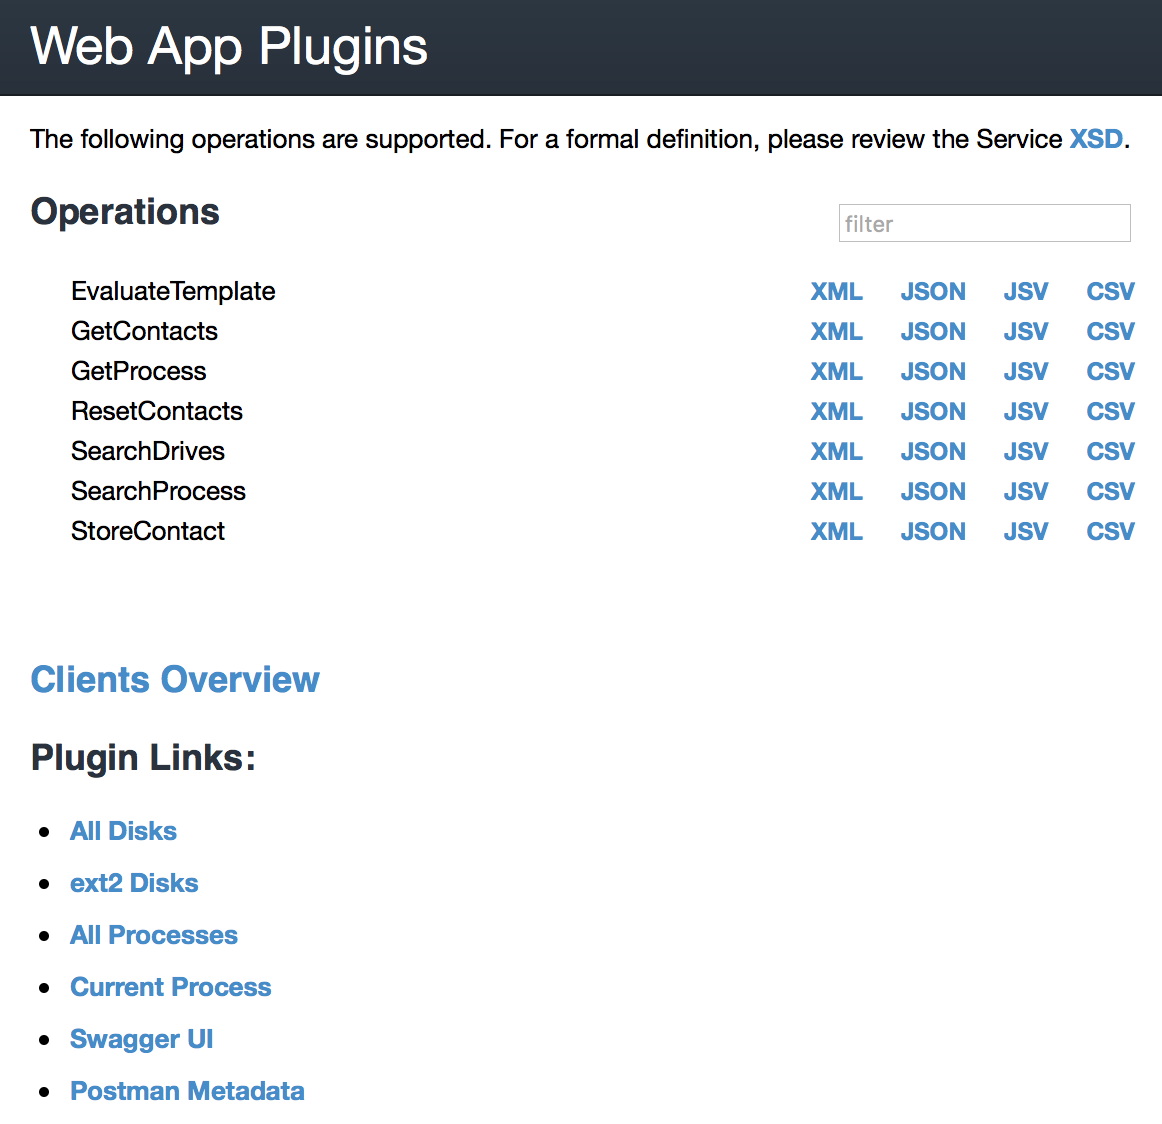
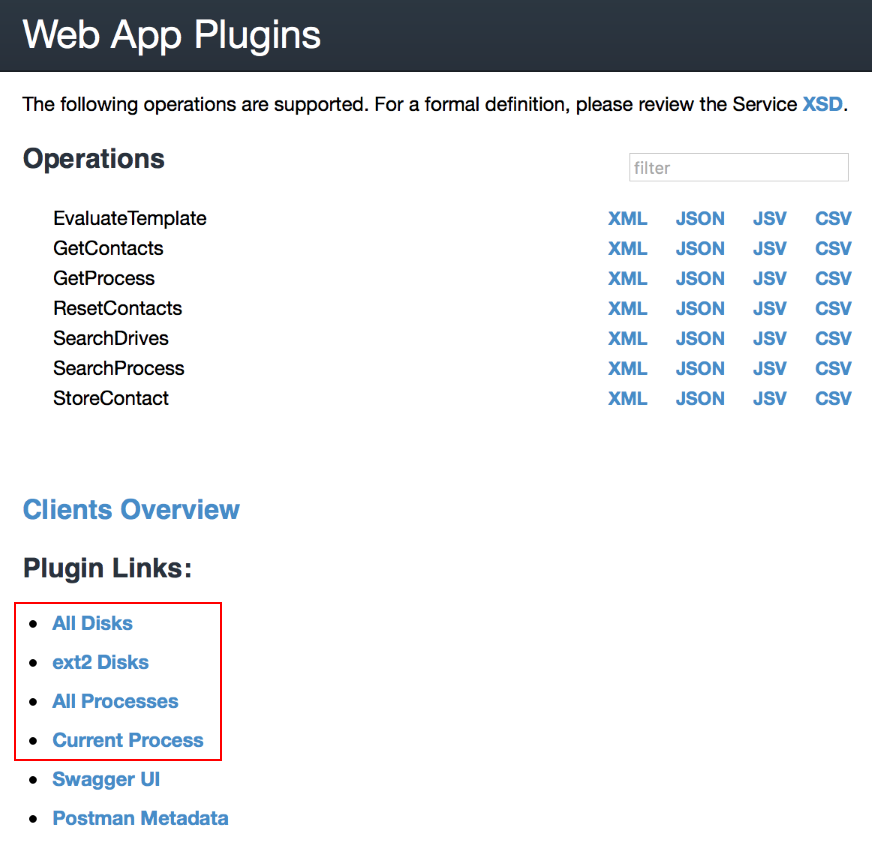
Add docs on CustomPlugin

diff --git a/src/apps/plugins/index.html b/src/apps/plugins/index.html
@@ -9,13 +9,14 @@ title: Web App Plugins
 
 <p>
     Plugins allow "no touch" sharing of 
-    <a href="http://docs.servicestack.net/create-your-first-webservice">ServiceStack Services</a>, 
+    <a href="http://docs.servicestack.net/plugins">ServiceStack Plugins</a>, 
+    <a href="http://docs.servicestack.net/create-your-first-webservice">Services</a>, 
     <a href="http://templates.servicestack.net/docs/filters">Template Filters</a>
     <a href="http://templates.servicestack.net/docs/code-pages">Template Code Pages</a>,
     <a href="http://docs.servicestack.net/validation">Validators</a>, etc.
-    that are contained within <b>.dll's</b> or <b>.exe's</b> dropped in a Web App's 
+    contained within <b>.dll's</b> or <b>.exe's</b> dropped in a Web App's 
     <a href="https://github.com/NetCoreApps/WebApp/tree/master/src/apps/plugins/plugins">/plugins</a> folder which are auto-registered 
-    on startup. This source code for the plugins used in this App were built from the .NET Core 2.0 projects in the
+    on startup. This source code for plugins used in this App were built from the .NET Core 2.0 projects in the
     <a href="https://github.com/NetCoreApps/WebApp/tree/master/src/example-plugins">/example-plugins</a> folder.
 </p>
 
@@ -369,22 +370,65 @@ name Web App Plugins
 port 5000
 contentRoot ~/../plugins
 webRoot ~/../plugins
-features OpenApiFeature, PostmanFeature, CorsFeature, ValidationFeature
+features CustomPlugin, OpenApiFeature, PostmanFeature, CorsFeature, ValidationFeature
+CustomPlugin { ShowProcessLinks: true }
 ValidationFeature { ScanAppHostAssemblies: true }
 </code></pre>
 
 <p>
-    All plugins listed in <em>features</em> will be added to your Web App's AppHost. They can further customized by adding a 
-    separate config entry with the Plugin Name and a JavaScript Object literal to populate the Plugin at registration, e.g
+    All plugins listed in <em>features</em> will be added to your Web App's AppHost in the order they're specified. They can further customized 
+    by adding a separate config entry with the Plugin Name and a JavaScript Object literal to populate the Plugin at registration, e.g
     the config above is equivalent to:
 </p>
 
-<pre class="cs"><code>Plugins.Add(new ValidationFeature {
-    ScanAppHostAssemblies = true
-});</code></pre>
+<pre class="cs"><code>Plugins.Add(new CustomPlugin { ShowProcessLinks = true });
+Plugins.Add(new OpenApiFeature());
+Plugins.Add(new PostmanFeature());
+Plugins.Add(new CorsFeature());
+Plugins.Add(new ValidationFeature { ScanAppHostAssemblies = true });</code></pre>
+
+<h4>Custom Plugin</h4>
 
 <p>
-    In this case it tells the <em>ValidationFeature</em> to scan all Service Assemblies for Validators and to automatically register them
+    In this case it tells our <a href="https://github.com/NetCoreApps/WebApp/blob/master/src/example-plugins/ServerInfo/CustomPlugin.cs">CustomPlugin</a>
+    to also show Process Links in our <a href="/metadata">/metadata</a> Page:
+</p>
+
+<pre class="cs"><code>public class CustomPlugin : IPlugin
+{
+    public bool ShowDrivesLinks { get; set; } = true;
+    
+    public bool ShowProcessLinks { get; set; }
+
+    public void Register(IAppHost appHost)
+    {
+        if (ShowDrivesLinks)
+        {
+            var diskFormat = Env.IsWindows ? "NTFS" : "ext2";
+            appHost.GetPlugin&lt;MetadataFeature&gt;()
+                .AddPluginLink("/drives", "All Disks")
+                .AddPluginLink($"/drives?DriveFormatIn={diskFormat}", $"{diskFormat} Disks");
+        }
+
+        if (ShowProcessLinks)
+        {
+            appHost.GetPlugin&lt;MetadataFeature&gt;()
+                .AddPluginLink("/processes", "All Processes")
+                .AddPluginLink("/process/current", "Current Process");
+        }
+    }
+}</code></pre>
+
+<p>
+    Where as it was first registered in the list will appear before any links registered by other plugins:
+</p>
+
+<img src="/assets/img/metadata-screenshot.png" alt="Metadata screenshot">
+
+<h4>Built-in Plugins</h4>
+
+<p>
+    It also tells the <em>ValidationFeature</em> to scan all Service Assemblies for Validators and to automatically register them
     which is how ServiceStack was able to find the
     <a href="https://github.com/NetCoreApps/WebApp/blob/master/src/example-plugins/ServerInfo/ContactServices.cs">ContactValidator</a>
     used to validate the <em>StoreContact</em> request.
